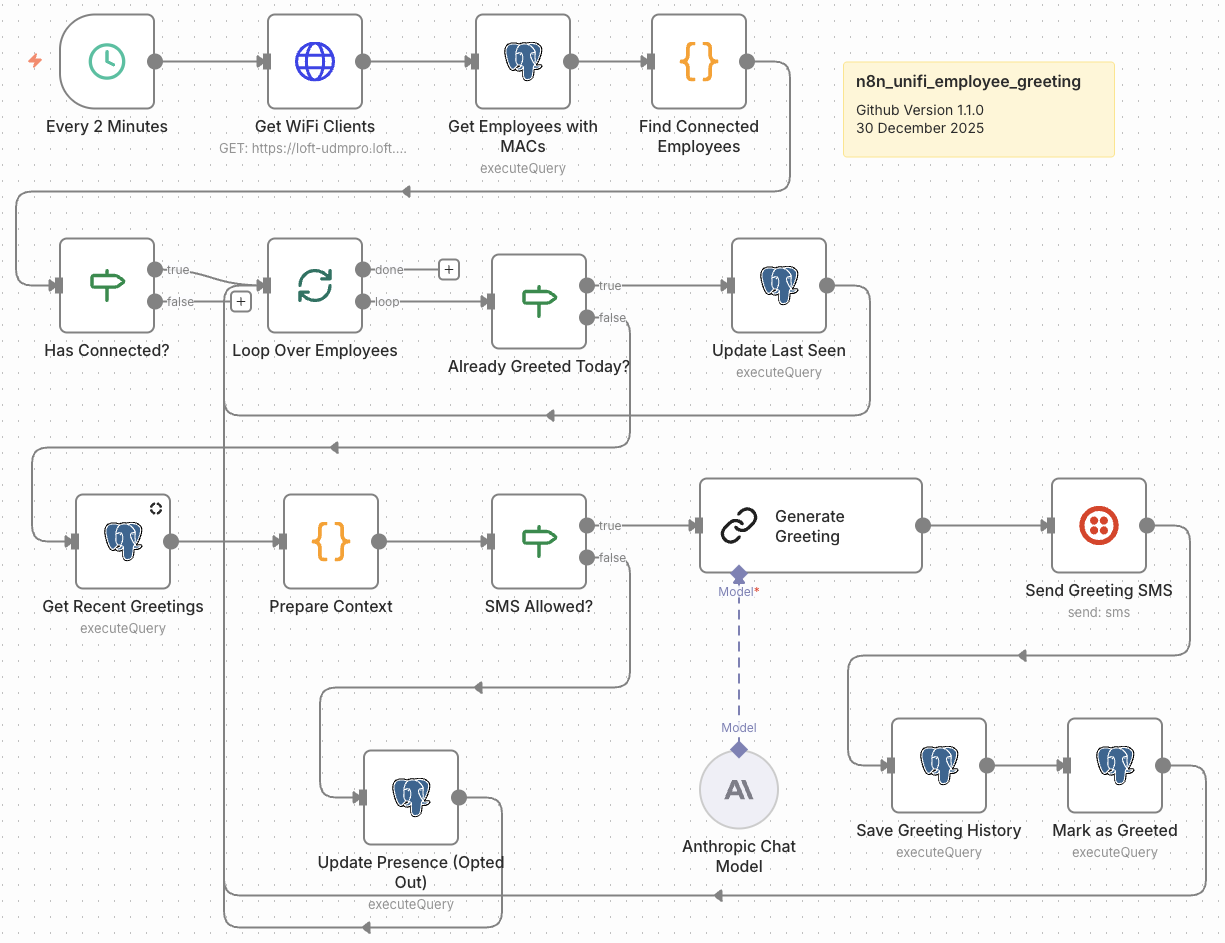
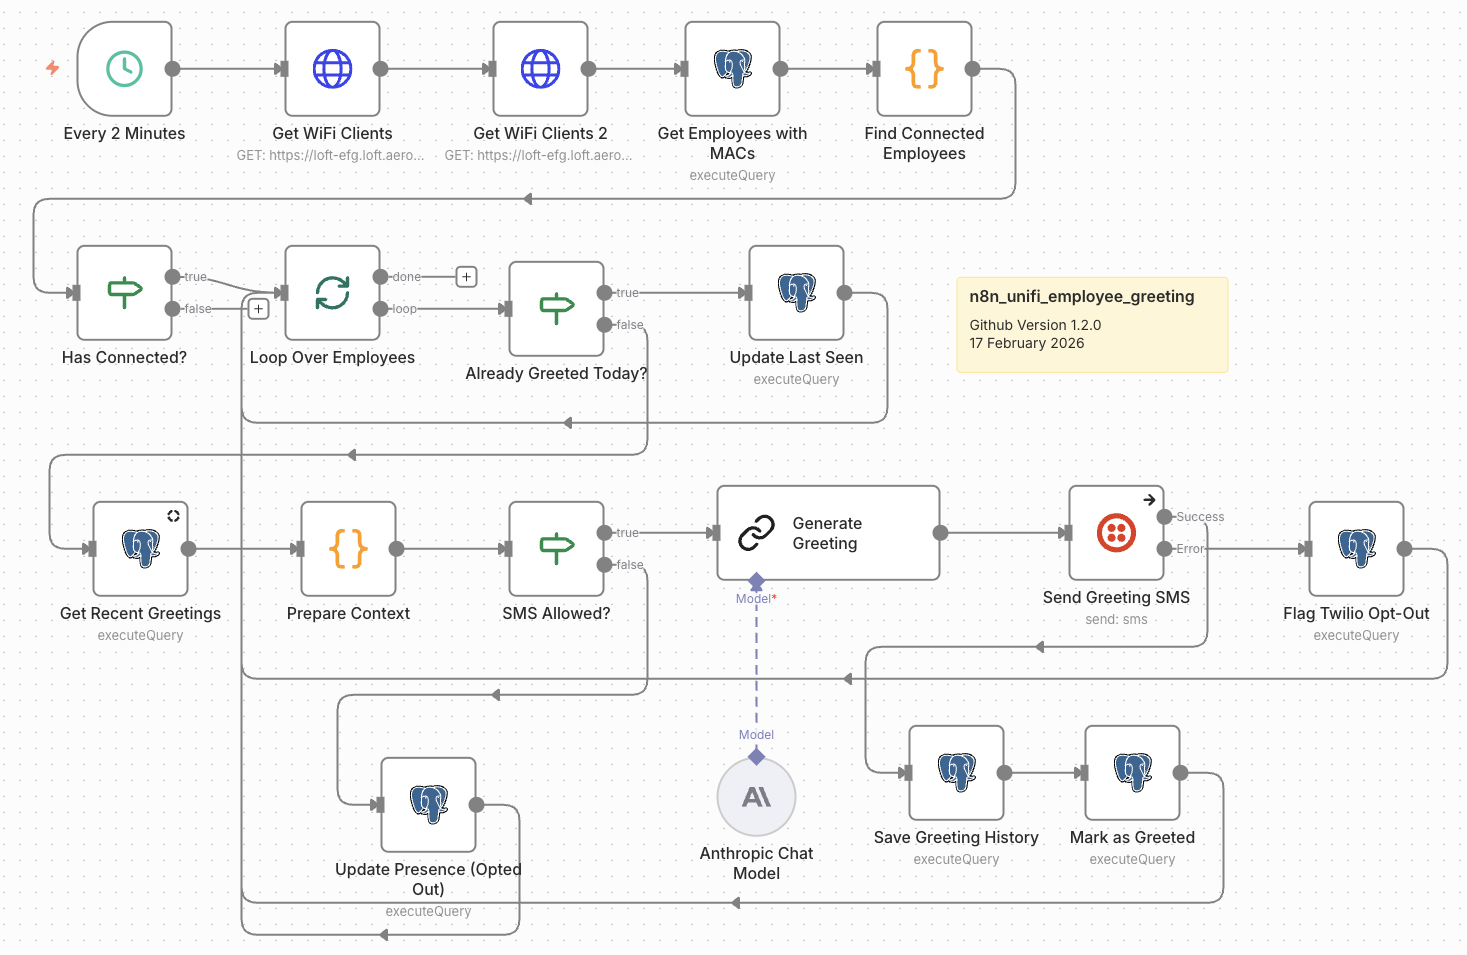
Bump to Version 1.2.0 - Updated automatic SMS Opt-Out

Changed region(s): [[0.0, 0.0, 0.9927, 1.0]]

diff --git a/README.md b/README.md
@@ -8,8 +8,8 @@
 [![UniFi](https://img.shields.io/badge/UniFi-Network_API-0559C9?logo=ubiquiti&logoColor=white)](https://ui.com)
 [![Twilio](https://img.shields.io/badge/Twilio-SMS-F22F46?logo=twilio&logoColor=white)](https://twilio.com)
 [![License](https://img.shields.io/badge/License-MIT-green.svg)](LICENSE)
-[![Version](https://img.shields.io/badge/Version-1.1.0-blue.svg)]()
-[![Release](https://img.shields.io/badge/Release-December%2030%2C%202025-orange.svg)]()
+[![Version](https://img.shields.io/badge/Version-1.2.0-blue.svg)]()
+[![Release](https://img.shields.io/badge/Release-February%2017%2C%202026-orange.svg)]()
 
 > ### *"People will forget what you said, people will forget what you did, but people will never forget how you made them feel."* — Maya Angelou
 
@@ -150,9 +150,10 @@ flowchart TB
     end
 
     subgraph DETECTION["📡 PRESENCE DETECTION PHASE"]
-        WIFI["Get WiFi Clients<br/>(UniFi API)"]
+        WIFI["Get WiFi Clients<br/>(UniFi API - Page 1)"]
+        WIFI2["Get WiFi Clients 2<br/>(UniFi API - Page 2)"]
         EMP["Get Employees with MACs<br/>(PostgreSQL Query)"]
-        FIND["Find New Arrivals<br/>(Code Node: Compare MACs,<br/>Filter ungreeted today)"]
+        FIND["Find New Arrivals<br/>(Code Node: Merge pages,<br/>Compare MACs,<br/>Filter ungreeted today)"]
         CHECK{"Has Arrivals?<br/>(contact_id > 0)"}
     end
 
@@ -160,6 +161,7 @@ flowchart TB
         BATCH["Loop Over Arrivals<br/>(Split In Batches, Size: 1)"]
         HIST["Get Recent Greetings<br/>(Last 10 per employee)"]
         CTX["Prepare Context<br/>(Merge employee data +<br/>past greetings)"]
+        SMSCHECK{"SMS Allowed?<br/>(Not opted out)"}
     end
 
     subgraph AI["🤖 AI GENERATION PHASE"]
@@ -171,16 +173,13 @@ flowchart TB
         SMS["Send Greeting SMS<br/>(Twilio Node)"]
         SAVE["Save Greeting History<br/>(PostgreSQL Insert)"]
         MARK["Mark as Greeted<br/>(Update presence_greetings<br/>+ first_seen_today)"]
-    end
-
-    subgraph ERROR["⚠ ERROR HANDLING PHASE"]
-        ERR["Handle SMS Error<br/>(Code Node)"]
-        OPTCHK{"Is Opt-Out<br/>Error?"}
-        FLAG["Flag as Opted Out<br/>(Update sms_opt_out)"]
+        FLAG["Flag Twilio Opt-Out<br/>(Update sms_opt_out)"]
+        OPTPRES["Update Presence<br/>(Opted Out)"]
     end
 
     T1 --> WIFI
-    WIFI --> EMP
+    WIFI --> WIFI2
+    WIFI2 --> EMP
     EMP --> FIND
     FIND --> CHECK
 
@@ -191,14 +190,14 @@ flowchart TB
     BATCH -->|"Loop (next person)"| HIST
 
     HIST --> CTX
-    CTX --> GEN
+    CTX --> SMSCHECK
+    SMSCHECK -->|"Yes"| GEN
+    SMSCHECK -->|"No (opted out)"| OPTPRES
+    OPTPRES --> BATCH
     MODEL -.->|"ai_languageModel"| GEN
     GEN --> SMS
     SMS -->|"Success"| SAVE
-    SMS -->|"Error"| ERR
-    ERR --> OPTCHK
-    OPTCHK -->|"Yes (21610)"| FLAG
-    OPTCHK -->|"No"| BATCH
+    SMS -->|"Error (21610)"| FLAG
     FLAG --> BATCH
     SAVE --> MARK
     MARK -->|"Loop back"| BATCH
@@ -208,8 +207,8 @@ flowchart TB
     style SMS fill:#F22F46,color:#fff
     style FIND fill:#FF9800,color:#fff
     style BATCH fill:#2196F3,color:#fff
-    style ERR fill:#FF5722,color:#fff
     style FLAG fill:#E91E63,color:#fff
+    style WIFI2 fill:#0559C9,color:#fff
 ```
 
 ### Node Details
@@ -217,21 +216,23 @@ flowchart TB
 | Node | Type | Purpose |
 |------|------|---------|
 | **Every 5 Minutes** | Schedule Trigger | Initiates workflow on configurable interval |
-| **Get WiFi Clients** | HTTP Request | Fetches all connected devices from UniFi API |
+| **Get WiFi Clients** | HTTP Request | Fetches first 200 connected devices from UniFi API |
+| **Get WiFi Clients 2** | HTTP Request | Fetches next 200 devices (offset=200) for pagination |
 | **Get Employees with MACs** | PostgreSQL | Queries employees with registered MAC addresses |
-| **Find New Arrivals** | Code | JavaScript logic to match MACs and filter ungreeted |
-| **Has Arrivals?** | IF | Conditional check to prevent empty processing |
-| **Loop Over Arrivals** | Split In Batches | Processes each employee individually |
+| **Find Connected Employees** | Code | Merges both pages, matches MACs, filters ungreeted |
+| **Has Connected?** | IF | Conditional check to prevent empty processing |
+| **Loop Over Employees** | Split In Batches | Processes each employee individually |
+| **Already Greeted Today?** | IF | Skips employees already greeted today |
 | **Get Recent Greetings** | PostgreSQL | Fetches last 10 greetings for repetition avoidance |
 | **Prepare Context** | Code | Merges employee data with greeting history |
+| **SMS Allowed?** | IF | Checks if employee has opted out of SMS |
 | **Generate Greeting** | LLM Chain | Sends prompt to Claude for message generation |
 | **Anthropic Chat Model** | AI Model | Claude Sonnet 4 with temperature 0.9 |
 | **Send Greeting SMS** | Twilio | Delivers message via SMS (with error output) |
-| **Handle SMS Error** | Code | Checks for Twilio error 21610 (opt-out) |
-| **Is Opt-Out Error?** | IF | Routes based on error type |
-| **Flag as Opted Out** | PostgreSQL | Sets sms_opt_out = TRUE for the contact |
+| **Flag Twilio Opt-Out** | PostgreSQL | Sets sms_opt_out = TRUE when Twilio returns 21610 |
 | **Save Greeting History** | PostgreSQL | Stores message for future reference |
 | **Mark as Greeted** | PostgreSQL | Updates presence tracking with first_seen_today |
+| **Update Presence (Opted Out)** | PostgreSQL | Updates presence for opted-out employees |
 
 ---
 
@@ -298,15 +299,13 @@ docker exec -it n8n_postgres psql -U n8n -c "CREATE DATABASE your_database;"
 docker exec -i n8n_postgres psql -U n8n -d your_database < employee-arrival-greetings-schema.sql
 ```
 
-### Step 3: Import the Workflows
+### Step 3: Import the Workflow
 
 1. Open n8n at `https://your-domain.com`
 2. Go to **Workflows** → **Import from File**
 3. Select `employee-arrival-greetings-template.json`
 4. Click **Save**
-5. Import the error workflow: **Workflows** → **Import from File** → `handle-sms-opt-out-errors-template.json`
-6. Configure PostgreSQL credentials on both workflows
-7. Link the error workflow: Open main workflow → **Settings** → **Error Workflow** → Select "Handle SMS Opt-Out Errors"
+5. Configure PostgreSQL credentials on all Postgres nodes
 
 ### Step 4: Configure Placeholders
 
@@ -314,9 +313,12 @@ Update these values in the workflow:
 
 | Node | Placeholder | Replace With                              |
 |------|-------------|-------------------------------------------|
-| Get WiFi Clients | `YOUR_UNIFI_CONTROLLER_IP` | Your UniFi IP (e.g., `10.200.10.5`)       |
+| Get WiFi Clients | `YOUR_UNIFI_CONTROLLER` | Your UniFi hostname/IP (e.g., `10.200.10.5`)       |
 | Get WiFi Clients | `YOUR_SITE_ID` | Your UniFi site UUID                      |
 | Get WiFi Clients | `YOUR_UNIFI_API_KEY` | Your UniFi API key                        |
+| Get WiFi Clients 2 | `YOUR_UNIFI_CONTROLLER` | Same as Get WiFi Clients       |
+| Get WiFi Clients 2 | `YOUR_SITE_ID` | Same as Get WiFi Clients                      |
+| Get WiFi Clients 2 | `YOUR_UNIFI_API_KEY` | Same as Get WiFi Clients                        |
 | Send Greeting SMS | `YOUR_TWILIO_PHONE_NUMBER` | Your Twilio number (e.g., `+1xxxxxxxxxx`) |
 | Generate Greeting | `YOUR_COMPANY_NAME` | Your company name                         |
 
@@ -620,33 +622,19 @@ The system automatically handles SMS opt-outs to prevent errors and respect user
 
 ### How It Works
 
-1. **Pre-Send Filtering** — The workflow excludes users with `sms_opt_out = TRUE` before attempting to send SMS
+1. **Pre-Send Filtering** — The workflow checks `sms_opt_out` before attempting to send SMS via the "SMS Allowed?" node
 2. **Presence Tracking Continues** — Opted-out users still have their `first_seen_today` and `last_seen_at` tracked—they just don't receive SMS
-3. **Automatic Detection** — When Twilio returns error 21610 ("Attempt to send to unsubscribed recipient"), the error workflow automatically flags the user
+3. **Automatic Detection** — When Twilio returns error 21610 ("Attempt to send to unsubscribed recipient"), the workflow automatically flags the user via the error output
 4. **Graceful Recovery** — After flagging, the workflow continues processing remaining employees
 
-### Error Workflow Setup
+### Inline Error Handling
 
-The system includes a separate **Error Workflow** (`handle-sms-opt-out-errors-template.json`) that catches Twilio 21610 errors and automatically flags users as opted out.
+The workflow handles Twilio opt-out errors inline without requiring a separate error workflow:
 
-#### Importing the Error Workflow
-
-1. In n8n, go to **Workflows** → **Import from File**
-2. Select `handle-sms-opt-out-errors-template.json`
-3. Configure the **PostgreSQL** credential on the "Flag as Opted Out" node
-4. **Save** and **Activate** the workflow
-
-#### Linking to Main Workflow
-
-1. Open your main **Employee Arrival Greetings** workflow
-2. Go to **Settings** (gear icon in top right)
-3. Under **Error Workflow**, select **Handle SMS Opt-Out Errors**
-4. Save the workflow
-
-Now when the main workflow encounters a Twilio 21610 error, it will trigger the error workflow which will:
-- Extract the contact information from the failed execution
-- Check if it's an opt-out error (code 21610)
-- Update the database to set `sms_opt_out = TRUE` for that contact
+1. **Send Greeting SMS** node is configured with `onError: continueErrorOutput`
+2. Success output goes to **Save Greeting History** → **Mark as Greeted**
+3. Error output goes to **Flag Twilio Opt-Out** which sets `sms_opt_out = TRUE`
+4. Both paths loop back to **Loop Over Employees** to continue processing
 
 ### View Opted-Out Employees
 
@@ -732,10 +720,11 @@ Twilio automatically manages opt-outs when users text these keywords to your num
 
 | Issue | Solution |
 |-------|----------|
-| Error 21610 persists | Run the opt-out query to flag the user in database |
+| Error 21610 persists | User should be automatically flagged; check Flag Twilio Opt-Out node |
 | Employee stopped receiving | Check if `sms_opt_out = TRUE` in contacts table |
 | User opted back in but no SMS | Set `sms_opt_out = FALSE` manually in database |
-| Workflow stops on SMS error | Ensure `onError: continueErrorOutput` is set on Twilio node |
+| Workflow stops on SMS error | Verify Send Greeting SMS has `onError: continueErrorOutput` enabled |
+| Opt-out not being flagged | Ensure error output of Send Greeting SMS connects to Flag Twilio Opt-Out |
 
 ### Wrong Arrival Times
 
